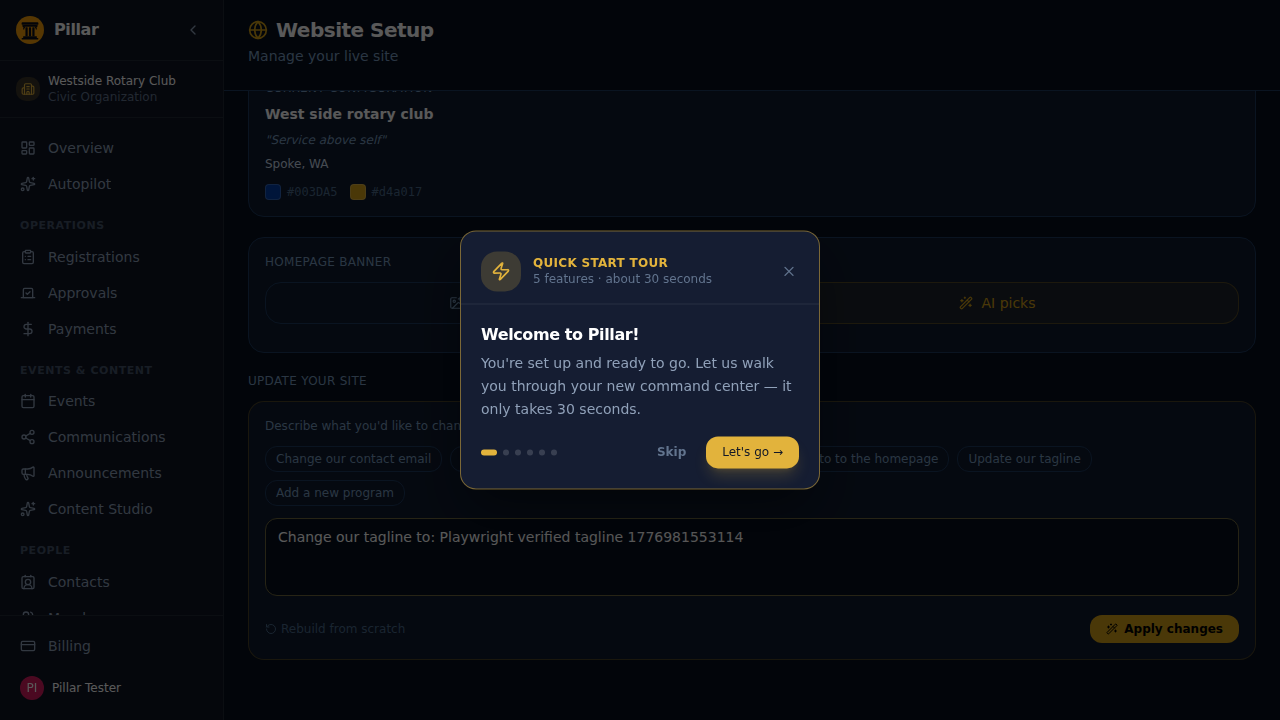
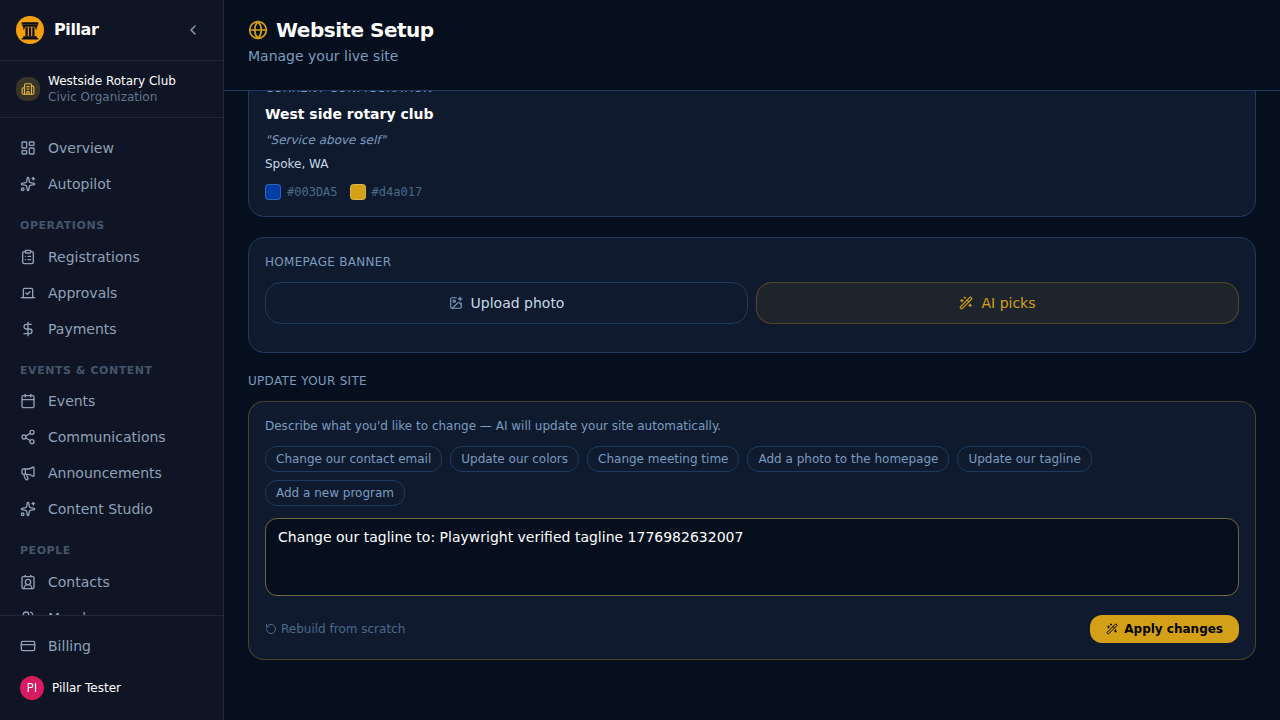
Bypass the guided tour to prevent test blockers during login
Add a helper function to bypass the guided tour using local storage and ensure tests can proceed without interruption.

Replit-Commit-Author: Agent
Replit-Commit-Session-Id: c50d1635-6aac-4260-b5c2-94baa8402de3
Replit-Commit-Checkpoint-Type: full_checkpoint
Replit-Commit-Event-Id: c40389bf-0398-48fe-a16b-e33b3a5d4300
Replit-Commit-Screenshot-Url: https://storage.googleapis.com/screenshot-production-us-central1/e053fb7d-dadd-44a3-bc26-e888d1ebc5ad/c50d1635-6aac-4260-b5c2-94baa8402de3/JbNGbYH
Replit-Helium-Checkpoint-Created: true

diff --git a/artifacts/e2e/helpers.ts b/artifacts/e2e/helpers.ts
@@ -80,9 +80,46 @@ export async function loginToSteward(
     },
   ]);
 
+  // Mark the first-run GuidedTour as completed before any page script runs,
+  // so the overlay never mounts and can't intercept clicks. Key matches
+  // TOUR_STORAGE_KEY in artifacts/steward/src/components/GuidedTour.tsx.
+  await page.addInitScript(() => {
+    try {
+      localStorage.setItem("steward-tour-completed", "true");
+    } catch {
+      /* ignore */
+    }
+  });
+
   await page.goto(`${STEWARD}${targetPath}`, { waitUntil: "domcontentloaded" });
   await expect(page).not.toHaveURL(/\/login$/);
   await expect(page).not.toHaveURL(new RegExp(`^${STEWARD}/?$`));
+
+  // Belt-and-suspenders: if the tour somehow still appeared, dismiss it.
+  await dismissGuidedTourIfPresent(page);
+  await assertAuthenticated(page);
+}
+
+export async function dismissGuidedTourIfPresent(page: Page): Promise<void> {
+  const overlay = page.locator('[data-replit-metadata*="GuidedTour.tsx"]');
+  if (await overlay.first().isVisible().catch(() => false)) {
+    const skipButton = page.getByRole("button", {
+      name: /skip|dismiss|close|got it|done/i,
+    });
+    if (await skipButton.first().isVisible().catch(() => false)) {
+      await skipButton.first().click();
+      await overlay
+        .first()
+        .waitFor({ state: "hidden", timeout: 5000 })
+        .catch(() => {});
+      return;
+    }
+    await page.keyboard.press("Escape");
+    await overlay
+      .first()
+      .waitFor({ state: "hidden", timeout: 5000 })
+      .catch(() => {});
+  }
 }
 
 export async function assertAuthenticated(page: Page): Promise<void> {
